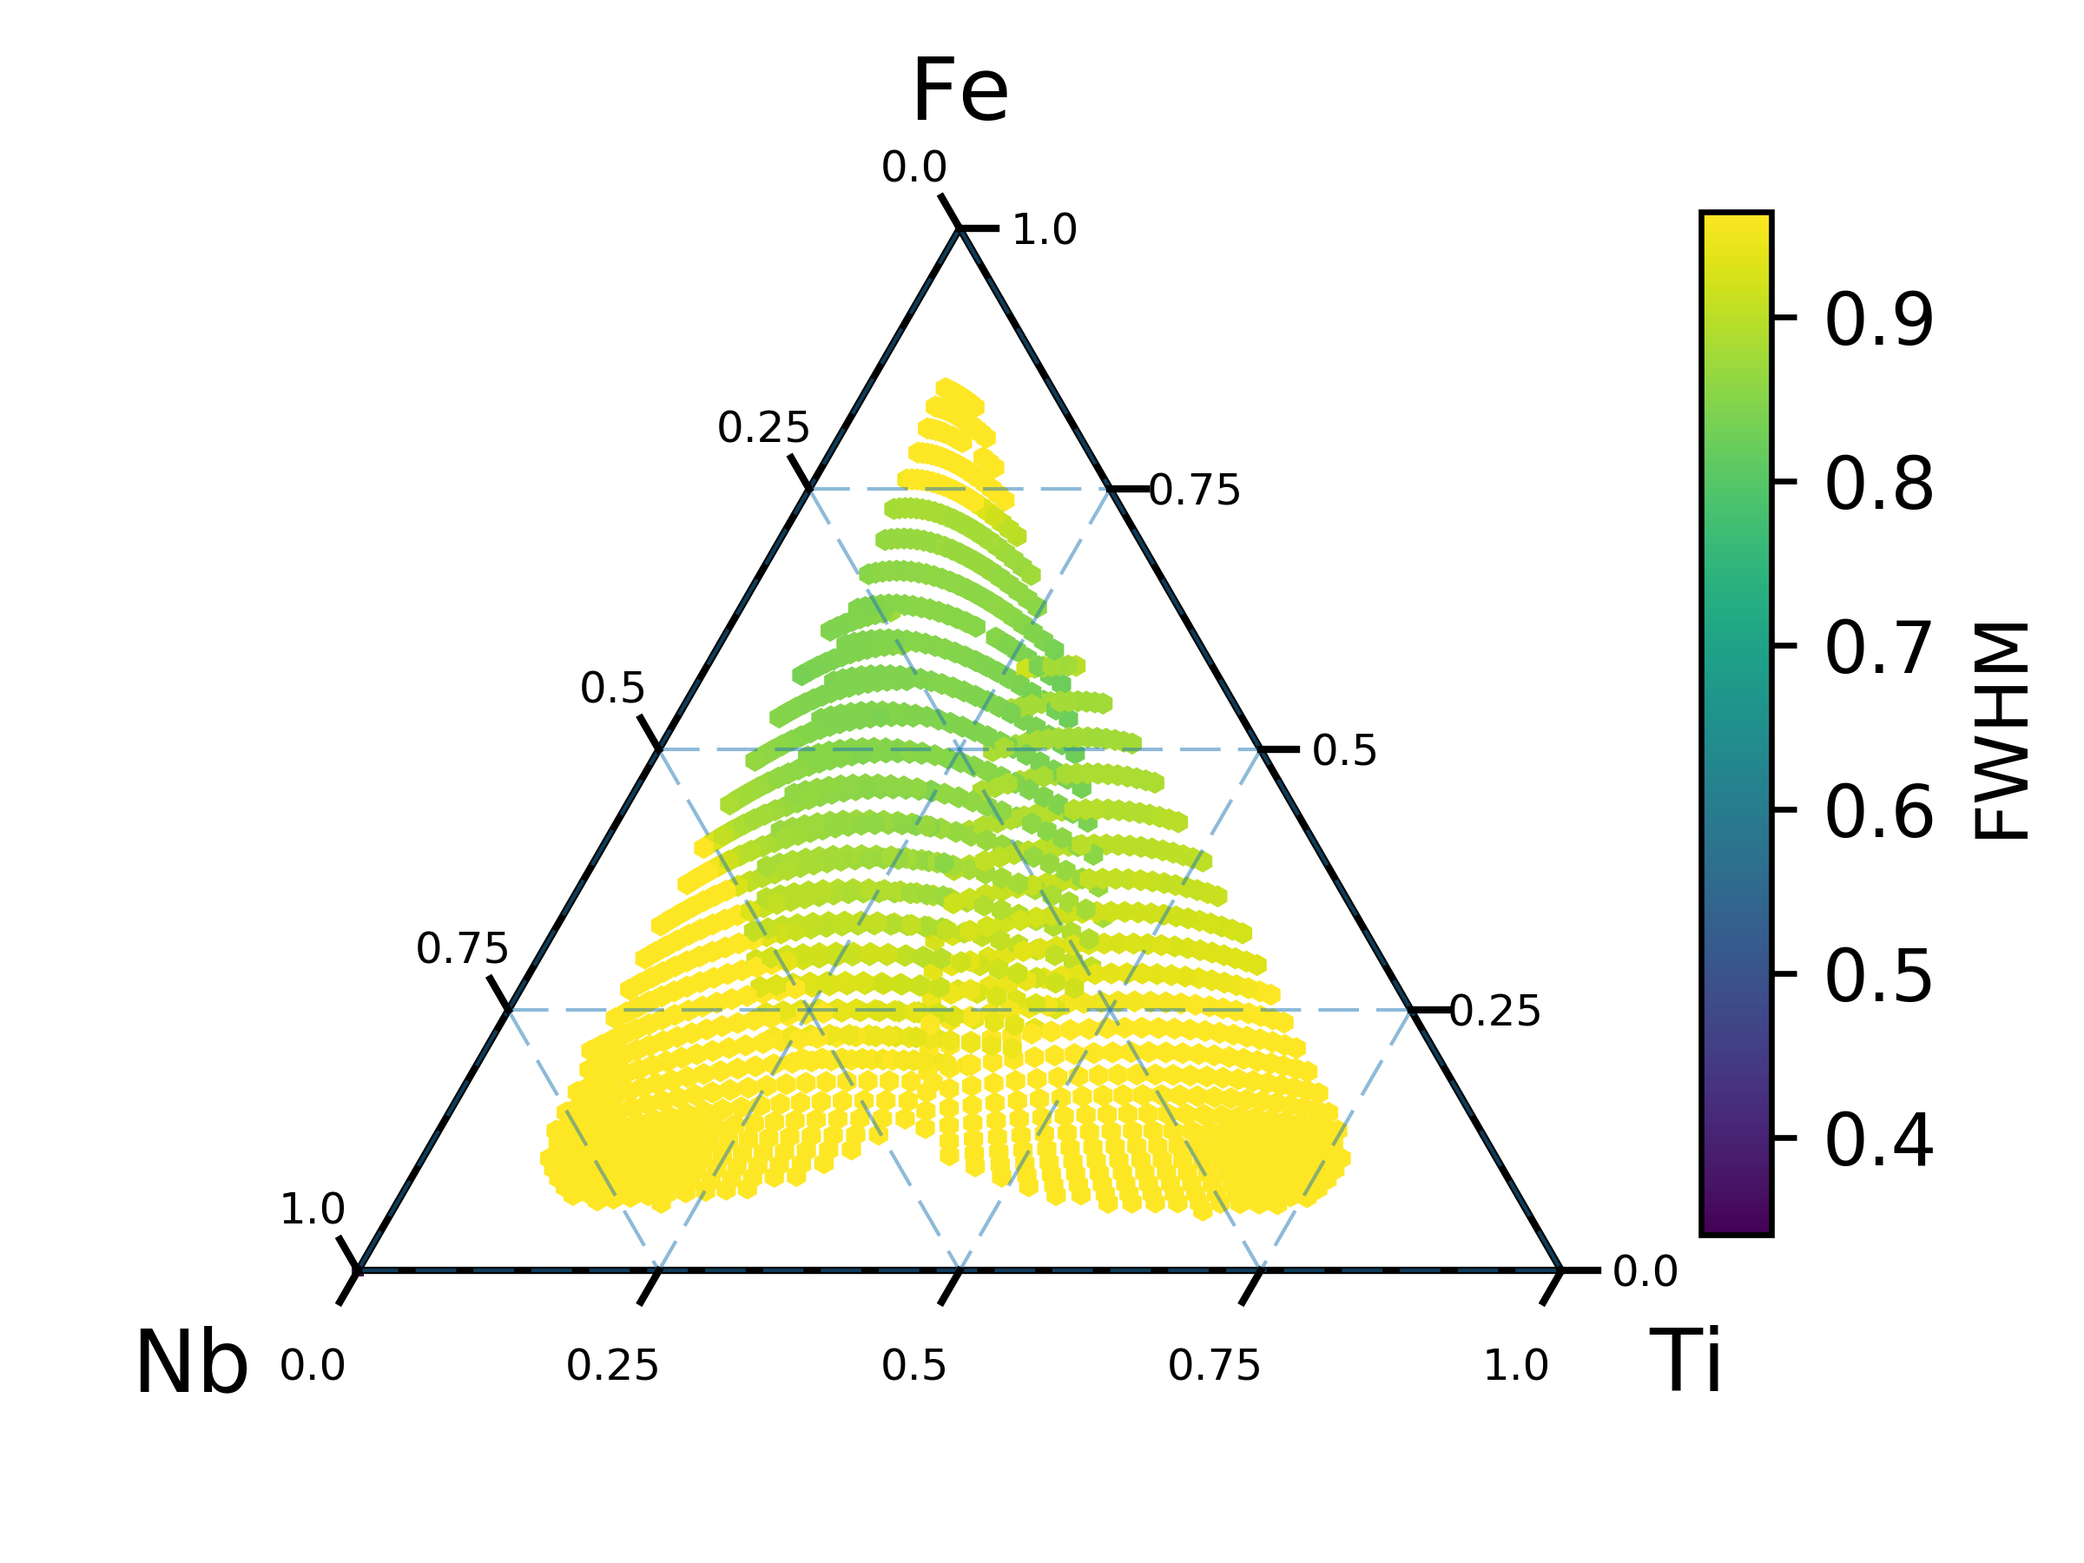
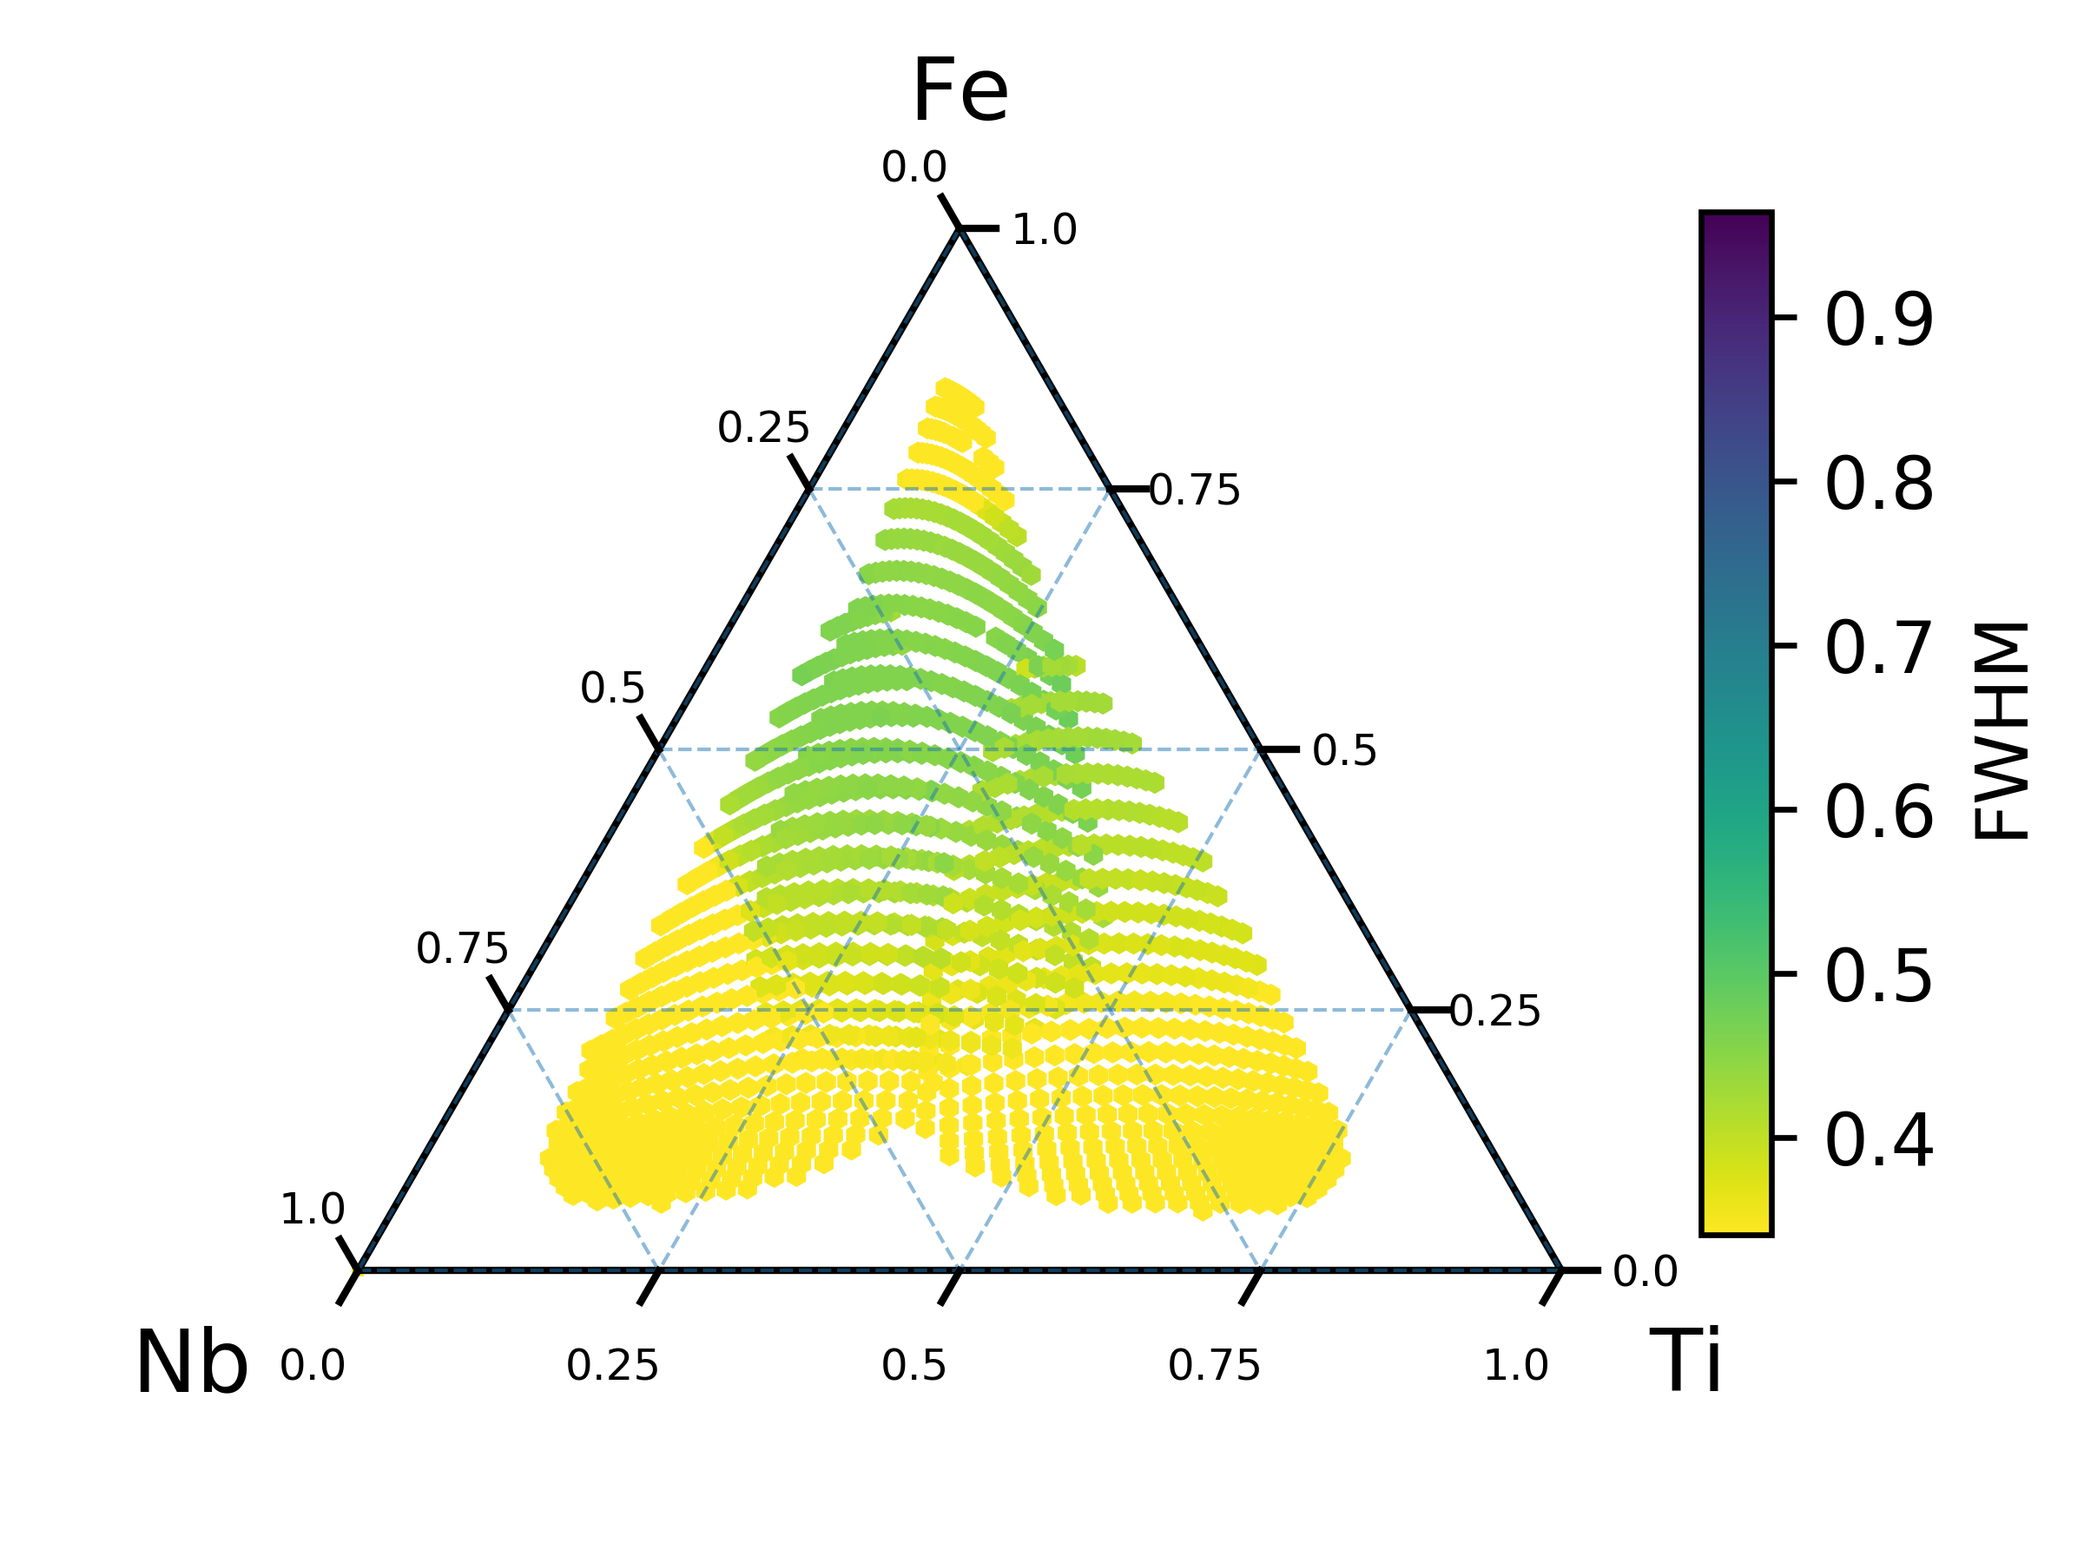
Added CoFeZr and CoTiZr data

Changed region(s): [[0.8125, 0.1244, 0.875, 0.4356], [0.8125, 0.4978, 0.875, 0.8089]]

diff --git a/scripts/figure_plotters/Figure_CoFeZr.py b/scripts/figure_plotters/Figure_CoFeZr.py
@@ -20,7 +20,7 @@ from plotTernary import plt_ternary_save
 
 
 path = '..//..//data//CoFeZr//master_data//'
-save_path = path
+save_path =  '..//..//figures//'
 
 
 basename1 = 'CLEANED_Sample4_master_metadata.csv'
@@ -51,27 +51,27 @@ peak_intensity = data[:,66]
 
 peak_width_neighborhood = np.copy(peak_width)
 
-
-ternary_data = np.concatenate(([Co],[Fe],[Zr],[peak_width]), axis = 0)
-ternary_data = np.transpose(ternary_data)
-
-plt_ternary_save(ternary_data, tertitle='',  labelNames=('Co','Fe','Zr'), scale=100,
-                       sv=True, svpth=save_path, svflnm='FWHM',
-                       cbl='FWHM', vmin = 0.341, vmax = 0.964, cmap='viridis_r', cb=True, style='h')
-# plt.close('all')
-# plt.figure(1)
-# plt.scatter(plate_y, plate_x, c = peak_width, s = 100, cmap = 'viridis_r')
-# plt.clim(0.314, 0.964)
-# plt.savefig(save_path + 'wafer')
-
-
-
-ternary_data = np.concatenate(([Co],[Fe],[Zr],[peak_position]), axis = 0)
-ternary_data = np.transpose(ternary_data)
-
-plt_ternary_save(ternary_data, tertitle='',  labelNames=('Co','Fe','Zr'), scale=100,
-                       sv=True, svpth=save_path, svflnm='peak_position',
-                       cbl='Peak position', vmin = 2.68, vmax = 3.05, cmap='viridis', cb=True, style='h')
+#
+# ternary_data = np.concatenate(([Co],[Fe],[Zr],[peak_width]), axis = 0)
+# ternary_data = np.transpose(ternary_data)
+#
+# plt_ternary_save(ternary_data, tertitle='',  labelNames=('Co','Fe','Zr'), scale=100,
+#                        sv=True, svpth=save_path, svflnm='FWHM_CoFeZr',
+#                        cbl='FWHM', vmin = 0.05, vmax = 0.57, cmap='viridis_r', cb=True, style='h')
+# # plt.close('all')
+# # plt.figure(1)
+# # plt.scatter(plate_y, plate_x, c = peak_width, s = 100, cmap = 'viridis_r')
+# # plt.clim(0.314, 0.964)
+# # plt.savefig(save_path + 'wafer')
+#
+#
+#
+# ternary_data = np.concatenate(([Co],[Fe],[Zr],[peak_position]), axis = 0)
+# ternary_data = np.transpose(ternary_data)
+#
+# plt_ternary_save(ternary_data, tertitle='',  labelNames=('Co','Fe','Zr'), scale=100,
+#                        sv=True, svpth=save_path, svflnm='peak_position_CoFeZr',
+#                        cbl='Peak position', vmin = 2.68, vmax = 3.05, cmap='viridis', cb=True, style='h')
 
 
 # ternary_data = np.concatenate(([Co],[Fe],[Zr],[[1]*len(Co)]), axis = 0)
@@ -83,21 +83,21 @@ plt_ternary_save(ternary_data, tertitle='',  labelNames=('Co','Fe','Zr'), scale=
 #
 
 
-
-ternary_data = np.concatenate(([Co],[Fe],[Zr],[Fe_alpha]), axis = 0)
-ternary_data = np.transpose(ternary_data)
-
-plt_ternary_save(ternary_data, tertitle='',  labelNames=('Co','Fe','Zr'), scale=100,
-                       sv=True, svpth=save_path, svflnm='Fe_alpha',
-                       cbl='Scale', cmap='viridis', cb=True, style='h')
-
-
-ternary_data = np.concatenate(([Co],[Fe],[Zr],[Co_alpha]), axis = 0)
-ternary_data = np.transpose(ternary_data)
-
-plt_ternary_save(ternary_data, tertitle='',  labelNames=('Co','Fe','Zr'), scale=100,
-                       sv=True, svpth=save_path, svflnm='Co_alpha',
-                       cbl='Scale', cmap='viridis', cb=True, style='h')
+#
+# ternary_data = np.concatenate(([Co],[Fe],[Zr],[Fe_alpha]), axis = 0)
+# ternary_data = np.transpose(ternary_data)
+#
+# plt_ternary_save(ternary_data, tertitle='',  labelNames=('Co','Fe','Zr'), scale=100,
+#                        sv=True, svpth=save_path, svflnm='Fe_alpha',
+#                        cbl='Scale', cmap='viridis', cb=True, style='h')
+#
+#
+# ternary_data = np.concatenate(([Co],[Fe],[Zr],[Co_alpha]), axis = 0)
+# ternary_data = np.transpose(ternary_data)
+#
+# plt_ternary_save(ternary_data, tertitle='',  labelNames=('Co','Fe','Zr'), scale=100,
+#                        sv=True, svpth=save_path, svflnm='Co_alpha',
+#                        cbl='Scale', cmap='viridis', cb=True, style='h')
 
 
 # neighborhood voting
@@ -129,8 +129,9 @@ for i in range(len(Co)):
 # interpolation
 peak_width_func = interpolate.Rbf(Co, Zr, Fe, peak_width_neighborhood, function='multiquadric', smooth=0.3)
 
-Co_range = np.arange(5.8, 84.7, 1)
-Zr_range = np.arange(7.3, 78.9, 1)
+
+Co_range = np.arange(min(Co), max(Co), 1)
+Zr_range = np.arange(min(Zr), max(Zr), 1)
 
 
 Co_new = []
@@ -164,19 +165,21 @@ ternary_data = np.concatenate(([Co_new],[Fe_new],[Zr_new],[peak_width_new]), axi
 ternary_data = np.transpose(ternary_data)
 
 plt_ternary_save(ternary_data, tertitle='',  labelNames=('Co','Fe','Zr'), scale=100,
-                       sv=True, svpth=save_path, svflnm='FWHM_interpolated',
-                       cbl='FWHM', vmin = 0.05, vmax = 0.48, cmap='viridis_r', cb=True, style='h')
+                       sv=True, svpth=save_path, svflnm='FWHM_interpolated_CoFeZr',
+                       cbl='FWHM', vmin = 0.05, vmax = 0.57, cmap='viridis_r', cb=True, style='h')
 
 
 
 labels = []
 for pw in peak_width_new:
-    if pw < 0.16:
-        label = 0
-    elif pw > 0.57:
+    # if pw < 0.16:
+    #     label = 0
+    if pw < 0.57:
+         label = 0
+    elif pw >= 0.57:
         label = 1
-    else:
-        label = 0.5
+    # else:
+    #     label = 0.5
     labels.append(label)
 
 
@@ -184,7 +187,7 @@ ternary_data = np.concatenate(([Co_new],[Fe_new],[Zr_new],[labels]), axis = 0)
 ternary_data = np.transpose(ternary_data)
 
 plt_ternary_save(ternary_data, tertitle='',  labelNames=('Co','Fe','Zr'), scale=100,
-                       sv=True, svpth=save_path, svflnm='GFA',
+                       sv=True, svpth=save_path, svflnm='GFA_CoFeZr',
                        cbl='Scale', vmax = 1, vmin = 0.1, cmap='viridis_r', cb=True, style='h')
 
 

diff --git a/scripts/figure_plotters/Figure_CoTiZr.py b/scripts/figure_plotters/Figure_CoTiZr.py
@@ -20,7 +20,7 @@ from plotTernary import plt_ternary_save
 
 
 path = '..//..//data//CoTiZr//master_data//'
-save_path = path
+save_path =  '..//..//figures//'
 
 
 basename1 = 'CLEANED_SampleB2_4_24x24_t30_master_metadata.csv'
@@ -52,21 +52,21 @@ num_of_peaks = data[:,70]
 
 peak_width_neighborhood = np.copy(peak_width)
 
-
-ternary_data = np.concatenate(([Co],[Ti],[Zr],[peak_width]), axis = 0)
-ternary_data = np.transpose(ternary_data)
-
-plt_ternary_save(ternary_data, tertitle='',  labelNames=('Co','Ti','Zr'), scale=100,
-                       sv=True, svpth=save_path, svflnm='FWHM',
-                       cbl='FWHM', vmin = 0.341, vmax = 0.964, cmap='viridis_r', cb=True, style='h')
-
-
-ternary_data = np.concatenate(([Co],[Ti],[Zr],[num_of_peaks]), axis = 0)
-ternary_data = np.transpose(ternary_data)
-
-plt_ternary_save(ternary_data, tertitle='',  labelNames=('Co','Ti','Zr'), scale=100,
-                       sv=True, svpth=save_path, svflnm='num_of_peaks',
-                       cbl='num_of_peaks', vmin = 1, vmax = 2, cmap='viridis', cb=True, style='h')
+#
+# ternary_data = np.concatenate(([Co],[Ti],[Zr],[peak_width]), axis = 0)
+# ternary_data = np.transpose(ternary_data)
+#
+# plt_ternary_save(ternary_data, tertitle='',  labelNames=('Co','Ti','Zr'), scale=100,
+#                        sv=True, svpth=save_path, svflnm='FWHM_CoTiZr',
+#                        cbl='FWHM', vmin = 0.05, vmax = 0.57, cmap='viridis_r', cb=True, style='h')
+#
+#
+# ternary_data = np.concatenate(([Co],[Ti],[Zr],[num_of_peaks]), axis = 0)
+# ternary_data = np.transpose(ternary_data)
+#
+# plt_ternary_save(ternary_data, tertitle='',  labelNames=('Co','Ti','Zr'), scale=100,
+#                        sv=True, svpth=save_path, svflnm='num_of_peaks_CoTiZr',
+#                        cbl='num_of_peaks', vmin = 1, vmax = 2, cmap='viridis', cb=True, style='h')
 
 #
 #
@@ -141,8 +141,9 @@ for i in range(len(Co)):
 # interpolation
 peak_width_func = interpolate.Rbf(Co, Zr, Ti, peak_width_neighborhood, function='multiquadric', smooth=0.3)
 
-Co_range = np.arange(5.8, 84.7, 1)
-Zr_range = np.arange(7.3, 78.9, 1)
+Co_range = np.arange(min(Co), max(Co), 1)
+Zr_range = np.arange(min(Zr), max(Zr), 1)
+
 
 
 Co_new = []
@@ -176,19 +177,21 @@ ternary_data = np.concatenate(([Co_new],[Ti_new],[Zr_new],[peak_width_new]), axi
 ternary_data = np.transpose(ternary_data)
 
 plt_ternary_save(ternary_data, tertitle='',  labelNames=('Co','Ti','Zr'), scale=100,
-                       sv=True, svpth=save_path, svflnm='FWHM_interpolated',
-                       cbl='FWHM', vmin = 0.05, vmax = 0.48, cmap='viridis_r', cb=True, style='h')
+                       sv=True, svpth=save_path, svflnm='FWHM_interpolated_CoTiZr',
+                       cbl='FWHM', vmin = 0.05, vmax = 0.57, cmap='viridis_r', cb=True, style='h')
 
 
 
 labels = []
 for pw in peak_width_new:
-    if pw < 0.16:
-        label = 0
-    elif pw > 0.57:
+    # if pw < 0.16:
+    #     label = 0
+    if pw < 0.57:
+         label = 0
+    elif pw >= 0.57:
         label = 1
-    else:
-        label = 0.5
+    # else:
+    #     label = 0.5
     labels.append(label)
 
 
@@ -196,7 +199,7 @@ ternary_data = np.concatenate(([Co_new],[Ti_new],[Zr_new],[labels]), axis = 0)
 ternary_data = np.transpose(ternary_data)
 
 plt_ternary_save(ternary_data, tertitle='',  labelNames=('Co','Ti','Zr'), scale=100,
-                       sv=True, svpth=save_path, svflnm='GFA',
+                       sv=True, svpth=save_path, svflnm='GFA_CoTiZr',
                        cbl='Scale', vmax = 1, vmin = 0.1, cmap='viridis_r', cb=True, style='h')
 
 

diff --git a/scripts/figure_plotters/FigureS3_CoVZr_low_power.py b/scripts/figure_plotters/FigureS3_CoVZr_low_power.py
@@ -20,7 +20,7 @@ from scipy import interpolate
 plotTernary = imp.load_source("plt_ternary_save", "plotTernary.py")
 
 
-path = '..//..//data//master_data//'
+path = '..//..//data//CoVZr//master_data//'
 save_path = '..//..//figures//'
 
 basename1 = 'CLEANED_Sample9_master_metadata_low.csv'
@@ -50,15 +50,15 @@ ternary_data = np.concatenate(([Co],[V],[Zr],[peak_width]), axis = 0)
 ternary_data = np.transpose(ternary_data)
 
 plotTernary.plt_ternary_save(ternary_data, tertitle='',  labelNames=('Co','V','Zr'), scale=100,
-                       sv=True, svpth=save_path, svflnm='FigureS3b',
-                       cbl='FWHM', vmin = 0.341, vmax = 0.964, cmap='viridis_r', cb=True, style='h')
+                       sv=True, svpth=save_path, svflnm='FigureS3b_FWHM_CoVZr',
+                       cbl='FWHM', vmin = 0.05, vmax = 0.57, cmap='viridis_r', cb=True, style='h')
 
-ternary_data = np.concatenate(([Co],[V],[Zr],[peak_position]), axis = 0)
-ternary_data = np.transpose(ternary_data)
-
-plotTernary.plt_ternary_save(ternary_data, tertitle='',  labelNames=('Co','V','Zr'), scale=100,
-                       sv=True, svpth=save_path, svflnm='FigureS3a',
-                       cbl='Peak position', vmin = 2.49, vmax = 3.15, cmap='viridis', cb=True, style='h')
+# ternary_data = np.concatenate(([Co],[V],[Zr],[peak_position]), axis = 0)
+# ternary_data = np.transpose(ternary_data)
+#
+# plotTernary.plt_ternary_save(ternary_data, tertitle='',  labelNames=('Co','V','Zr'), scale=100,
+#                        sv=True, svpth=save_path, svflnm='FigureS3a',
+#                        cbl='Peak position', vmin = 2.49, vmax = 3.15, cmap='viridis', cb=True, style='h')
 
 
 # ternary_data = np.concatenate(([Co],[V],[Zr],[[1]*len(Co)]), axis = 0)
@@ -128,8 +128,8 @@ ternary_data = np.concatenate(([Co_new],[V_new],[Zr_new],[peak_width_new]), axis
 ternary_data = np.transpose(ternary_data)
 
 plotTernary.plt_ternary_save(ternary_data, tertitle='',  labelNames=('Co','V','Zr'), scale=100,
-                       sv=True, svpth=save_path, svflnm='FigureS3c',
-                       cbl='FWHM', vmin = 0.341, vmax = 0.964, cmap='viridis_r', cb=True, style='h')
+                       sv=True, svpth=save_path, svflnm='FigureS3c_FWHM_interpolated_CoVZr',
+                       cbl='FWHM', vmin = 0.05, vmax = 0.57, cmap='viridis_r', cb=True, style='h')
 
 
 labels = []

diff --git a/scripts/figure_plotters/Figure3b_CoVZr_low_power.py b/scripts/figure_plotters/Figure3b_CoVZr_low_power.py
@@ -20,7 +20,7 @@ from scipy import interpolate
 plotTernary = imp.load_source("plt_ternary_save", "plotTernary.py")
 
 
-path = '..//..//data//master_data//'
+path = '..//..//data//CoVZr//master_data//'
 save_path = '..//..//figures//'
 
 basename1 = 'CLEANED_Sample9_master_metadata_low.csv'
@@ -100,23 +100,25 @@ peak_width_new = np.array(peak_width_new)
 print peak_width.max(), peak_width.min()
 print peak_width_new.max(), peak_width_new.min()
 
-#
+
 # ternary_data = np.concatenate(([Co_new],[V_new],[Zr_new],[peak_width_new]), axis = 0)
 # ternary_data = np.transpose(ternary_data)
 #
 # plotTernary.plt_ternary_save(ternary_data, tertitle='',  labelNames=('Co','V','Zr'), scale=100,
-#                        sv=True, svpth=save_path, svflnm='Figure3b',
+#                        sv=True, svpth=save_path, svflnm='Figure3b_FWHM_interpolated_CoVZr',
 #                        cbl='FWHM', vmin = 0.341, vmax = 0.964, cmap='viridis_r', cb=True, style='h')
-
+#
 
 labels = []
 for pw in peak_width_new:
-    if pw < 0.16:
-        label = 0
-    elif pw > 0.57:
+    # if pw < 0.16:
+    #     label = 0
+    if pw < 0.57:
+         label = 0
+    elif pw >= 0.57:
         label = 1
-    else:
-        label = 0.5
+    # else:
+    #     label = 0.5
     labels.append(label)
 
 
@@ -124,7 +126,7 @@ ternary_data = np.concatenate(([Co_new],[V_new],[Zr_new],[labels]), axis = 0)
 ternary_data = np.transpose(ternary_data)
 
 plotTernary.plt_ternary_save(ternary_data, tertitle='',  labelNames=('Co','V','Zr'), scale=100,
-                       sv=True, svpth=save_path, svflnm='Figure3b',
+                       sv=True, svpth=save_path, svflnm='Figure3b_GFA_CoVZr',
                        cbl='Glass forming', vmax = 1, vmin = 0.1, cmap='viridis_r', cb=True, style='h')
 
 

diff --git a/scripts/figure_plotters/Figure5c_FeTiNb.py b/scripts/figure_plotters/Figure5c_FeTiNb.py
@@ -16,7 +16,7 @@ import scipy
 from scipy import interpolate
 from plotTernary import plt_ternary_save
 
-path = '..//..//data//master_data//'
+path = '..//..//data//FeTiNb//master_data//'
 save_path = '..//..//figures//'
 
 
@@ -102,12 +102,14 @@ print peak_width_new.max(), peak_width_new.min()
 
 labels = []
 for pw in peak_width_new:
-    if pw < 0.16:
-        label = 0
-    elif pw > 0.57:
+    # if pw < 0.16:
+    #     label = 0
+    if pw < 0.57:
+         label = 0
+    elif pw >= 0.57:
         label = 1
-    else:
-        label = 0.5
+    # else:
+    #     label = 0.5
     labels.append(label)
 
 

diff --git a/scripts/figure_plotters/FigureS4_FeTiNb.py b/scripts/figure_plotters/FigureS4_FeTiNb.py
@@ -148,7 +148,7 @@ ternary_data = np.transpose(ternary_data)
 
 plotTernary.plt_ternary_save(ternary_data, tertitle='',  labelNames=('Fe','Ti','Nb'), scale=100,
                        sv=True, svpth=save_path, svflnm='FigureS4b',
-                       cbl='FWHM', vmin = 0.05, vmax = 0.48, cmap='viridis_r', cb=True, style='h')
+                       cbl='FWHM', vmin = 0.05, vmax = 0.57, cmap='viridis_r', cb=True, style='h')
 
 
 labels = []
